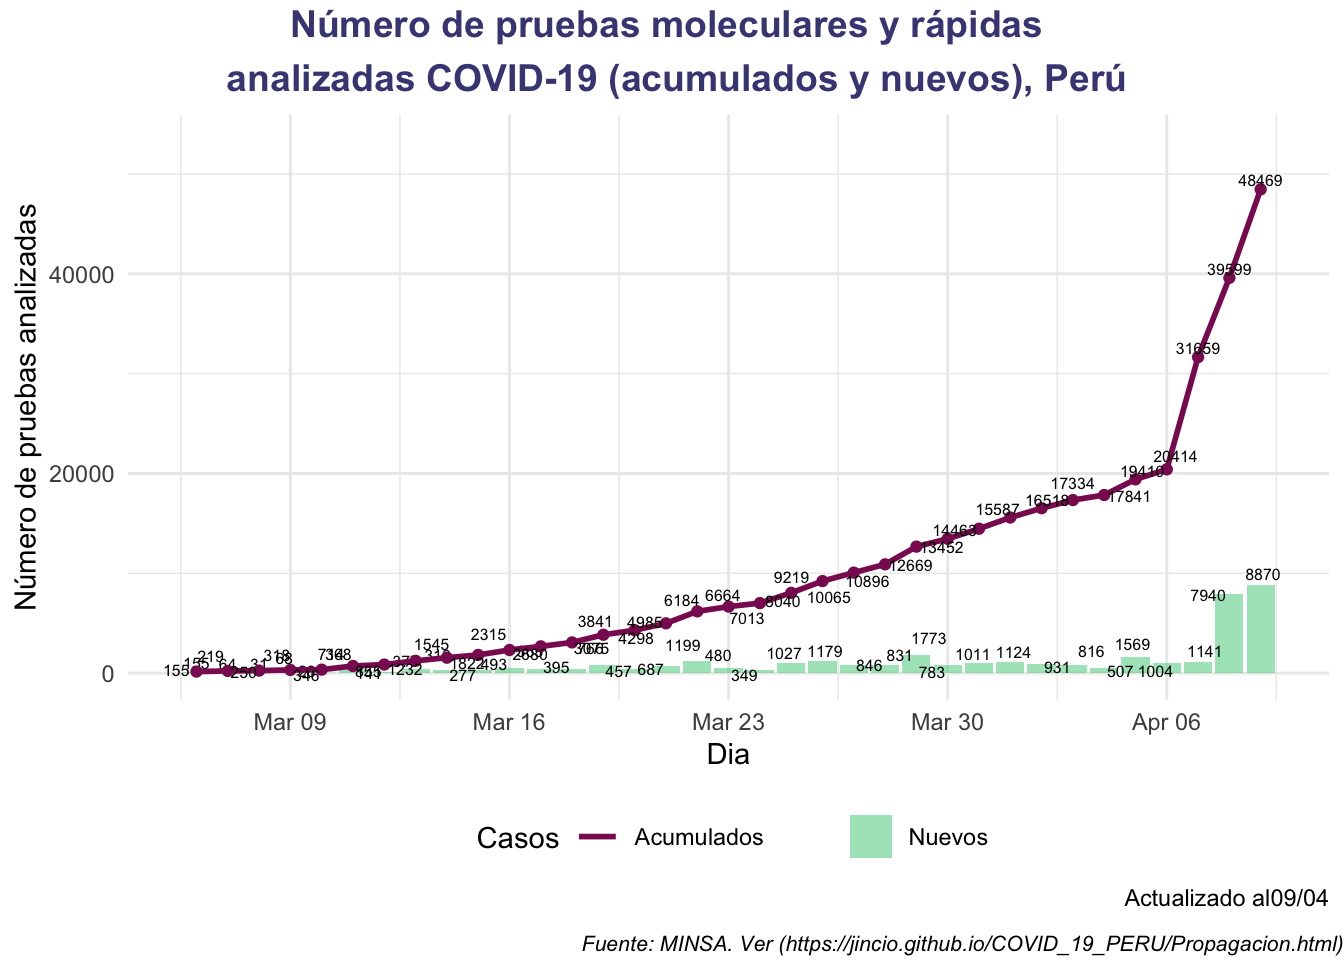
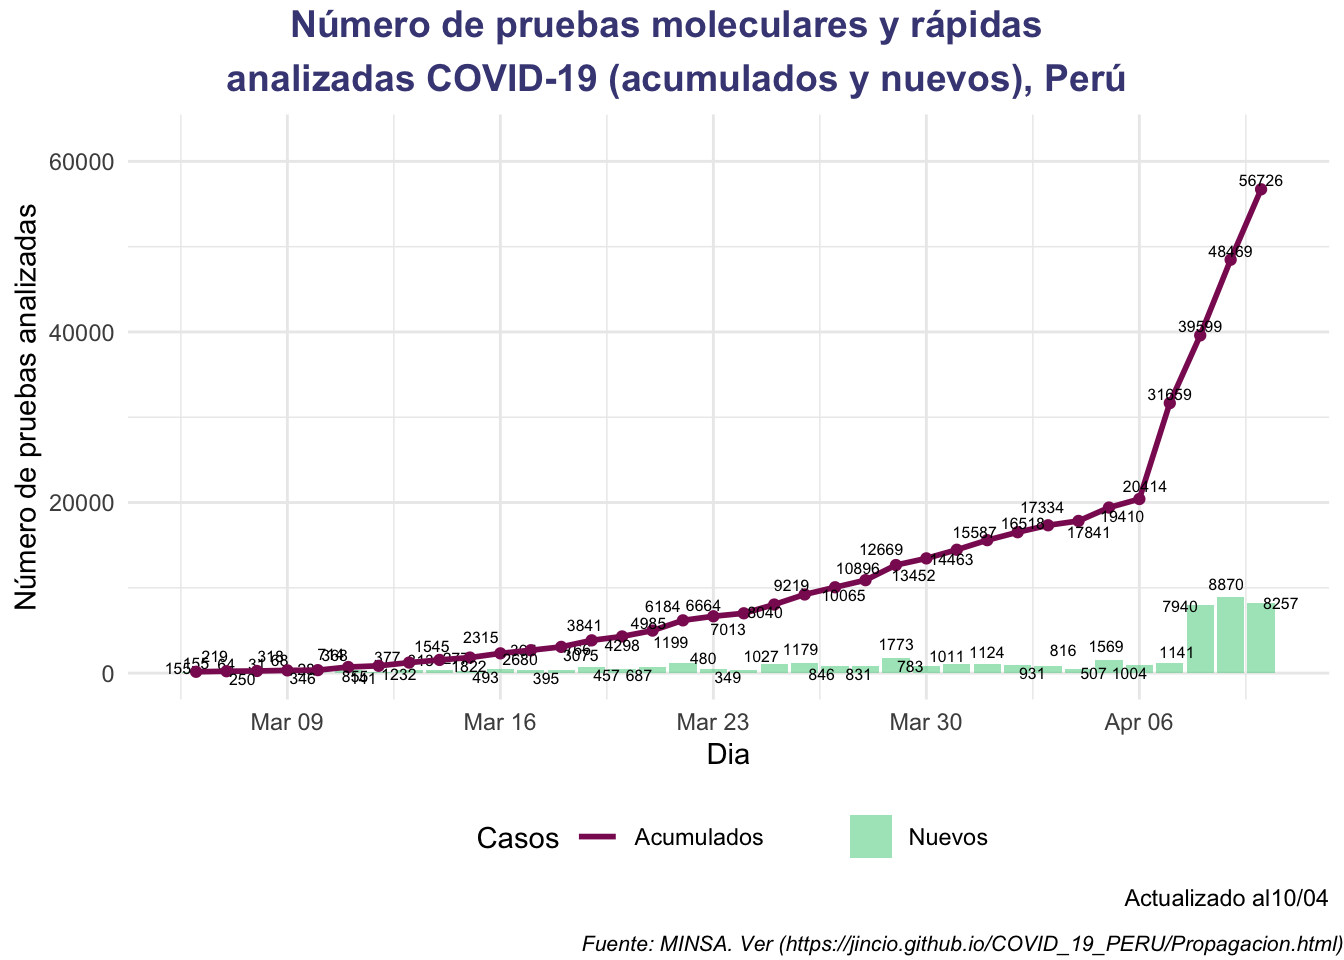
update 1 04_10

diff --git a/docs/Propagacion.html b/docs/Propagacion.html
@@ -427,8 +427,8 @@ div.tocify {
 </div>
 <div id="tabla" class="section level2">
 <h2><span class="header-section-number">1.10</span> Tabla</h2>
-<div id="htmlwidget-c6394638649979cfe542" style="width:100%;height:auto;" class="datatables html-widget"></div>
-<script type="application/json" data-for="htmlwidget-c6394638649979cfe542">{"x":{"filter":"none","data":[["2020-04-09","2020-04-08","2020-04-07","2020-04-06","2020-04-05","2020-04-04","2020-04-03","2020-04-02","2020-04-01","2020-03-31","2020-03-30","2020-03-29","2020-03-28","2020-03-27","2020-03-26","2020-03-25","2020-03-24","2020-03-23","2020-03-22","2020-03-21","2020-03-20","2020-03-19","2020-03-18","2020-03-17","2020-03-16","2020-03-15","2020-03-14","2020-03-13","2020-03-12","2020-03-11","2020-03-10","2020-03-09","2020-03-08","2020-03-07","2020-03-06"],[24414,23255,21555,20414,19410,17841,17334,16518,15587,14463,13452,12669,10896,10065,9219,8040,7013,6664,6184,4985,4298,3841,3075,2680,2315,1822,1545,1232,855,714,346,318,250,219,155],[4121,3614,2954,2561,2281,1746,1595,1414,1323,1065,950,852,671,635,580,480,416,395,363,318,263,234,145,117,86,71,43,38,22,17,11,9,7,6,1],[20289,19641,18601,17853,17129,16095,15739,15104,14264,13398,12502,11817,10225,9430,8639,7560,6597,6269,5821,4667,4035,3607,2930,2563,2229,1751,1502,1194,833,697,335,309,243,213,154],[16.88,15.54,13.7,12.55,11.75,9.79,9.2,8.56,8.49,7.36,7.06,6.73,6.16,6.31,6.29,5.97,5.93,5.93,5.87,6.38,6.12,6.09,4.72,4.37,3.71,3.9,2.78,3.08,2.57,2.38,3.18,2.83,2.8,2.74,0.65]],"container":"<table class=\"display\">\n  <thead>\n    <tr>\n      <th>Dia<\/th>\n      <th>Pruebas analizadas<\/th>\n      <th>Positivos<\/th>\n      <th>Descartados<\/th>\n      <th>TasaPositivos<\/th>\n    <\/tr>\n  <\/thead>\n<\/table>","options":{"pageLength":10,"lengthMenu":[10,25,40],"language":{"lengthMenu":"Mostrar _MENU_ entradas","info":"Mostrando _START_ al _END_ de _TOTAL_ entradas","search":"Buscar:","paginate":{"previous":"Anterior","next":"Siguiente"}},"columnDefs":[{"className":"dt-right","targets":[1,2,3,4]}],"order":[],"autoWidth":false,"orderClasses":false}},"evals":[],"jsHooks":[]}</script>
+<div id="htmlwidget-a235b5a5b3554a27284d" style="width:100%;height:auto;" class="datatables html-widget"></div>
+<script type="application/json" data-for="htmlwidget-a235b5a5b3554a27284d">{"x":{"filter":"none","data":[["2020-04-10","2020-04-09","2020-04-08","2020-04-07","2020-04-06","2020-04-05","2020-04-04","2020-04-03","2020-04-02","2020-04-01","2020-03-31","2020-03-30","2020-03-29","2020-03-28","2020-03-27","2020-03-26","2020-03-25","2020-03-24","2020-03-23","2020-03-22","2020-03-21","2020-03-20","2020-03-19","2020-03-18","2020-03-17","2020-03-16","2020-03-15","2020-03-14","2020-03-13","2020-03-12","2020-03-11","2020-03-10","2020-03-09","2020-03-08","2020-03-07","2020-03-06"],[25643,24414,23255,21555,20414,19410,17841,17334,16518,15587,14463,13452,12669,10896,10065,9219,8040,7013,6664,6184,4985,4298,3841,3075,2680,2315,1822,1545,1232,855,714,346,318,250,219,155],[4549,4121,3614,2954,2561,2281,1746,1595,1414,1323,1065,950,852,671,635,580,480,416,395,363,318,263,234,145,117,86,71,43,38,22,17,11,9,7,6,1],[21094,20289,19641,18601,17853,17129,16095,15739,15104,14264,13398,12502,11817,10225,9430,8639,7560,6597,6269,5821,4667,4035,3607,2930,2563,2229,1751,1502,1194,833,697,335,309,243,213,154],[17.74,16.88,15.54,13.7,12.55,11.75,9.79,9.2,8.56,8.49,7.36,7.06,6.73,6.16,6.31,6.29,5.97,5.93,5.93,5.87,6.38,6.12,6.09,4.72,4.37,3.71,3.9,2.78,3.08,2.57,2.38,3.18,2.83,2.8,2.74,0.65]],"container":"<table class=\"display\">\n  <thead>\n    <tr>\n      <th>Dia<\/th>\n      <th>Pruebas analizadas<\/th>\n      <th>Positivos<\/th>\n      <th>Descartados<\/th>\n      <th>TasaPositivos<\/th>\n    <\/tr>\n  <\/thead>\n<\/table>","options":{"pageLength":10,"lengthMenu":[10,25,40],"language":{"lengthMenu":"Mostrar _MENU_ entradas","info":"Mostrando _START_ al _END_ de _TOTAL_ entradas","search":"Buscar:","paginate":{"previous":"Anterior","next":"Siguiente"}},"columnDefs":[{"className":"dt-right","targets":[1,2,3,4]}],"order":[],"autoWidth":false,"orderClasses":false}},"evals":[],"jsHooks":[]}</script>
 <p>Para los gráficos he adaptado del post de Gabriel Carrasco Escobar (<a href="http://gcarrasco.rbind.io/blog/covid19_viz/" class="uri">http://gcarrasco.rbind.io/blog/covid19_viz/</a>)</p>
 </div>
 </div>
